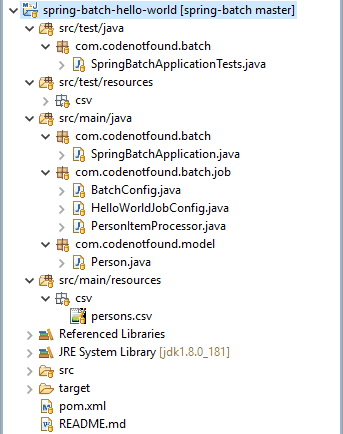
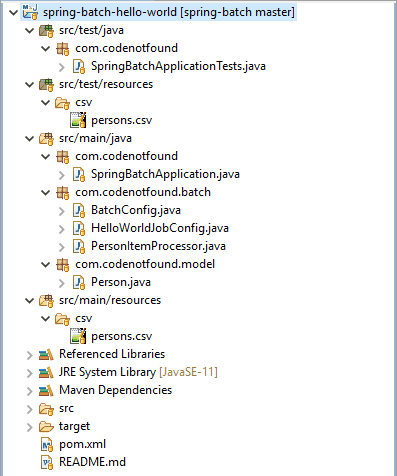
update post

Changed region(s): [[0.0, 0.0, 0.8746, 1.0], [0.9913, 0.0, 1.0, 1.0]]

diff --git a/_posts/spring-batch/2018-10-20-spring-batch-example.md b/_posts/spring-batch/2018-10-20-spring-batch-example.md
@@ -1,9 +1,9 @@
 ---
 title: "Spring Batch Example"
 permalink: /spring-batch-example.html
-excerpt: "A detailed step-by-step tutorial on how to implement a Hello World Spring Batch job using Spring Boot and Maven."
+excerpt: "A detailed step-by-step tutorial on how to implement a Hello World Spring Batch job using Spring Boot."
 date: 2018-10-20
-last_modified_at: 2018-11-17
+last_modified_at: 2019-05-30
 header:
   teaser: "assets/images/spring-batch/spring-batch-example.png"
 categories: [Spring Batch]
@@ -15,7 +15,7 @@ published: true
 
 <img src="{{ site.url }}/assets/images/spring-batch/spring-batch-example.png" alt="spring batch example" class="align-right title-image">
 
-I'm going to show you exactly how to create a [Spring Batch](https://spring.io/projects/spring-batch){:target="_blank"} _Hello World_ example that uses [Spring Boot](https://spring.io/projects/spring-boot){:target="_blank"} and [Maven](https://maven.apache.org/){:target="_blank"}.
+I'm going to show you exactly how to create a [Spring Batch](https://spring.io/projects/spring-batch){:target="_blank"} _Hello World_ example that uses [Spring Boot](https://spring.io/projects/spring-boot){:target="_blank"}.
 
 (Step-by-step)
 
@@ -28,13 +28,13 @@ If you want to learn more about Spring Batch - head on over to the [Spring Batch
 
 ## 1. How Does the Spring Batch Framework Work?
 
-Before we dive into the code let's look at the Spring Batch framework. It contains following key building blocks:
+Before we dive into the code let's look at the Spring Batch framework. It contains the following key building blocks:
 
 <img src="{{ site.url }}/assets/images/spring-batch/spring-batch-framework.png" alt="spring batch framework">
 
-A batch process consists out of a `Job`. This is an entity that encapsulates the entire batch process.
+A batch process consists of a `Job`. This is an entity that encapsulates the entire batch process.
 
-A `Job` can consist out of one or more `Step`s. In most cases, a step will read data (via an `ItemReader`), process it (using an `ItemProcessor`) and then write it (via an `ItemWriter`).
+A `Job` can consist of one or more `Step`s. In most cases, a step will read data (via an `ItemReader`), process it (using an `ItemProcessor`) and then write it (via an `ItemWriter`).
 
 The `JobLauncher` handles launching a `Job`.
 
@@ -47,9 +47,9 @@ In the example, we read a person's first and last name from a <var>person.csv</v
 ## 2. General Project Overview
 
 We will use the following tools/frameworks:
-* _Spring Batch 4.1_
-* _Spring Boot 2.1_
-* _Maven 3.5_
+* Spring Batch 4.1
+* Spring Boot 2.1
+* Maven 3.6
 
 Our project has the following directory structure:
 
@@ -75,11 +75,12 @@ The `spring-boot-starter-test` starter includes the dependencies for testing Spr
 
 There is also a dependency on `spring-batch-test`. This library contains some helper classes that will help test the batch job.
 
-In the plugins section, you'll find the [Spring Boot Maven Plugin](https://docs.spring.io/spring-boot/docs/current/reference/html/build-tool-plugins-maven-plugin.html){:target="_blank"}: `spring-boot-maven-plugin`. It allows us to build a single, runnable "uber-jar". This is a convenient way to execute and transport code. Also, the plugin allows you to start the example via a Maven command.
+In the plugins section, you'll find the [Spring Boot Maven Plugin](https://docs.spring.io/spring-boot/docs/2.1.5.RELEASE/reference/html/build-tool-plugins-maven-plugin.html){:target="_blank"}: `spring-boot-maven-plugin`. It allows us to build a single, runnable "uber-jar". This is a convenient way to execute and transport code. Also, the plugin allows you to start the example via a Maven command.
 
 {% highlight xml %}
 <?xml version="1.0" encoding="UTF-8"?>
-<project xmlns="http://maven.apache.org/POM/4.0.0" xmlns:xsi="http://www.w3.org/2001/XMLSchema-instance"
+<project xmlns="http://maven.apache.org/POM/4.0.0"
+  xmlns:xsi="http://www.w3.org/2001/XMLSchema-instance"
   xsi:schemaLocation="http://maven.apache.org/POM/4.0.0 http://maven.apache.org/xsd/maven-4.0.0.xsd">
   <modelVersion>4.0.0</modelVersion>
 
@@ -90,19 +91,17 @@ In the plugins section, you'll find the [Spring Boot Maven Plugin](https://docs.
 
   <name>spring-batch-hello-world</name>
   <description>Spring Batch Hello World Example</description>
-  <url>https://www.codenotfound.com/spring-batch-example.html</url>
+  <url>https://codenotfound.com/spring-batch-example.html</url>
 
   <parent>
     <groupId>org.springframework.boot</groupId>
     <artifactId>spring-boot-starter-parent</artifactId>
-    <version>2.1.0.RELEASE</version>
+    <version>2.1.5.RELEASE</version>
     <relativePath /> <!-- lookup parent from repository -->
   </parent>
 
   <properties>
-    <project.build.sourceEncoding>UTF-8</project.build.sourceEncoding>
-    <project.reporting.outputEncoding>UTF-8</project.reporting.outputEncoding>
-    <java.version>1.8</java.version>
+    <java.version>11</java.version>
   </properties>
 
   <dependencies>
@@ -110,7 +109,6 @@ In the plugins section, you'll find the [Spring Boot Maven Plugin](https://docs.
       <groupId>org.springframework.boot</groupId>
       <artifactId>spring-boot-starter-batch</artifactId>
     </dependency>
-
     <dependency>
       <groupId>org.springframework.boot</groupId>
       <artifactId>spring-boot-starter-test</artifactId>
@@ -150,7 +148,7 @@ In this example, we will **run Spring Batch without a database**. Instead, an in
 > The `spring-boot-starter-batch` starter has a dependency on `spring-boot-starter-jdbc` and will try to instantiate a datasource. Add <var>exclude = {DataSourceAutoConfiguration.class}</var> to the `@SpringBootApplication` annotation. This prevents Spring Boot from auto-configuring a `DataSource` for database connections.
 
 {% highlight java %}
-package com.codenotfound.batch;
+package com.codenotfound;
 
 import org.springframework.boot.SpringApplication;
 import org.springframework.boot.autoconfigure.SpringBootApplication;
@@ -216,7 +214,7 @@ public class Person {
 
 ## 6. Configuring the Spring Batch Job
 
-We start by creating a `BatchConfig` class that will configure Spring Batch. The [@Configuration](https://docs.spring.io/spring/docs/5.1.0.RELEASE/spring-framework-reference/core.html#beans-java-basic-concepts){:target="_blank"} annotation at the top of the class indicates that Spring can use this class as a source of bean definitions.
+We start by creating a `BatchConfig` class that will configure Spring Batch. The [@Configuration](https://docs.spring.io/spring/docs/5.1.7.RELEASE/spring-framework-reference/core.html#beans-java-basic-concepts){:target="_blank"} annotation at the top of the class indicates that Spring can use this class as a source of bean definitions.
 
 We add the [@EnableBatchProcessing](https://docs.spring.io/spring-batch/4.1.x/api/org/springframework/batch/core/configuration/annotation/EnableBatchProcessing.html){:target="_blank"} annotation which enables all needed Spring Batch features. It also provides a base configuration for setting up batch jobs.
 
@@ -233,7 +231,7 @@ We add the [@EnableBatchProcessing](https://docs.spring.io/spring-batch/4.1.x/ap
 For Spring Batch to use a Map based `JobRepository` we need to extend the `DefaultBatchConfigurer`. Override the `setDataSource()` method to not set a `DataSource`. This will cause the auto-configuration to [use a Map based JobRepository](https://github.com/spring-projects/spring-batch/blob/342d27bc1ed83312bdcd9c0cb30510f4c469e47d/spring-batch-core/src/main/java/org/springframework/batch/core/configuration/annotation/DefaultBatchConfigurer.java#L84){:target="_blank"}.
 
 {% highlight java %}
-package com.codenotfound.batch.job;
+package com.codenotfound.batch;
 
 import javax.sql.DataSource;
 import org.springframework.batch.core.configuration.annotation.DefaultBatchConfigurer;
@@ -257,7 +255,7 @@ Create a `HelloWorldJobConfig` configuration class and annotate it with `@Config
 
 In the `helloWorlJob` Bean, we use the `JobBuilderFactory` to create the job. We pass the name of the job and the step that needs to be run.
 
-> Note that [Spring will automatically wire](https://docs.spring.io/spring/docs/5.1.0.RELEASE/spring-framework-reference/core.html#beans-autowired-annotation){:target="_blank"} the `jobBuilders` and `stepBuilders` Beans in the `helloWorlJob()` Bean.
+> Note that [Spring will automatically wire](https://docs.spring.io/spring/docs/5.1.7.RELEASE/spring-framework-reference/core.html#beans-autowired-annotation){:target="_blank"} the `jobBuilders` and `stepBuilders` Beans in the `helloWorlJob()` Bean.
 
 The `helloWorldStep` Bean defines the different items our step executes. We use the `StepBuilderFactory` to create the step.
 
@@ -280,7 +278,7 @@ We use a `FlatFileItemWriterBuilder` builder implementation to create a `FlatFil
 The `FlatFileItemWriter` needs to know how to turn our generated output into a single string that can be written to a file. As in this example, our output is already a string we can use the [PassThroughLineAggregator](https://docs.spring.io/spring-batch/4.1.x/reference/html/readersAndWriters.html#PassThroughLineAggregator){:target="_blank"}. This is the most basic implementation, which assumes that the object is already a string.
 
 {% highlight java %}
-package com.codenotfound.batch.job;
+package com.codenotfound.batch;
 
 import org.springframework.batch.core.Job;
 import org.springframework.batch.core.Step;
@@ -350,7 +348,7 @@ To do so, we create a `PersonItemProcessor` that implements the `ItemProcessor` 
 For debugging purposes, we also log the result.
 
 {% highlight java %}
-package com.codenotfound.batch.job;
+package com.codenotfound.batch;
 
 import org.slf4j.Logger;
 import org.slf4j.LoggerFactory;
@@ -378,14 +376,16 @@ public class PersonItemProcessor
 
 To wrap up our example we create a basic unit test case. It will run the batch job and check if it finishes successfully.
 
-We use the `@RunWith` and `@SpringBootTest` [testing annotations](https://docs.spring.io/spring-boot/docs/2.1.0.RELEASE/reference/html/boot-features-testing.html#boot-features-testing-spring-boot-applications){:target="_blank"} to tell JUnit to run using Spring's testing support and bootstrap with Spring Boot's support.
+We use the `@RunWith` and `@SpringBootTest` [testing annotations](https://docs.spring.io/spring-boot/docs/2.1.5.RELEASE/reference/html/boot-features-testing.html#boot-features-testing-spring-boot-applications){:target="_blank"} to tell JUnit to run using Spring's testing support and bootstrap with Spring Boot's support.
 
 Spring Batch ships with a `JobLauncherTestUtils` utility class for testing batch jobs.
 
-We first create an inner `BatchTestConfig` class that adds our <var>helloWorld</var> job to a `JobLauncherTestUtils` bean. Then use the `launchJob()` method of this bean to run the batch job. If the job executed without any errors, the value of the exit code is <var>COMPLETED</var>.
+We first create an inner `BatchTestConfig` class that adds our <var>helloWorld</var> job to a `JobLauncherTestUtils` bean. Then use the `launchJob()` method of this bean to run the batch job.
+
+If the job executed without any errors, the value of the exit code is <var>COMPLETED</var>.
 
 {% highlight java %}
-package com.codenotfound.batch;
+package com.codenotfound;
 
 import static org.assertj.core.api.Assertions.assertThat;
 import org.junit.Test;
@@ -438,7 +438,7 @@ public class SpringBatchApplicationTests {
 }
 {% endhighlight %}
 
-To trigger above test case, open a command prompt in the project root folder and execute following Maven command:
+To trigger the above test case, open a command prompt in the project root folder and execute the following Maven command:
 
 {% highlight plaintext %}
 mvn test
@@ -447,31 +447,36 @@ mvn test
 The result is a successful build during which the batch job is executed.
 
 {% highlight plaintext %}
-.   ____          _            __ _ _
+ .   ____          _            __ _ _
 /\\ / ___'_ __ _ _(_)_ __  __ _ \ \ \ \
 ( ( )\___ | '_ | '_| | '_ \/ _` | \ \ \ \
 \\/  ___)| |_)| | | | | || (_| |  ) ) ) )
-'  |____| .__|_| |_|_| |_\__, | / / / /
+ '  |____| .__|_| |_|_| |_\__, | / / / /
 =========|_|==============|___/=/_/_/_/
-:: Spring Boot ::        (v2.1.0.RELEASE)
+:: Spring Boot ::        (v2.1.5.RELEASE)
 
-2018-11-11 20:37:27.573  INFO 14436 --- [           main] c.c.batch.SpringBatchApplication         : Starting SpringBatchApplication on DESKTOP-2RB3C1U with PID 14436 (C:\Users\Codenotfound\repos\spring-batch\spring-batch-hello-world\target\classes started by Codenotfound in C:\Users\Codenotfound\repos\spring-batch\spring-batch-hello-world)
-2018-11-11 20:37:27.589  INFO 14436 --- [           main] c.c.batch.SpringBatchApplication         : No active profile set, falling back to default profiles: default
-2018-11-11 20:37:28.245  WARN 14436 --- [           main] o.s.b.c.c.a.DefaultBatchConfigurer       : No datasource was provided...using a Map based JobRepository
-2018-11-11 20:37:28.245  WARN 14436 --- [           main] o.s.b.c.c.a.DefaultBatchConfigurer       : No transaction manager was provided, using a ResourcelessTransactionManager
-2018-11-11 20:37:28.276  INFO 14436 --- [           main] o.s.b.c.l.support.SimpleJobLauncher      : No TaskExecutor has been set, defaulting to synchronous executor.
-2018-11-11 20:37:28.667  INFO 14436 --- [           main] c.c.batch.SpringBatchApplication         : Started SpringBatchApplication in 1.406 seconds (JVM running for 5.269)
-2018-11-11 20:37:28.667  INFO 14436 --- [           main] o.s.b.a.b.JobLauncherCommandLineRunner   : Running default command line with: []
-2018-11-11 20:37:28.729  INFO 14436 --- [           main] o.s.b.c.l.support.SimpleJobLauncher      : Job: [SimpleJob: [name=helloWorldJob]] launched with the following parameters: [{}]
-2018-11-11 20:37:28.745  INFO 14436 --- [           main] o.s.batch.core.job.SimpleStepHandler     : Executing step: [helloWorldStep]
-2018-11-11 20:37:28.776  INFO 14436 --- [           main] c.c.batch.job.PersonItemProcessor        : converting 'John Doe' into 'Hello John Doe!'
-2018-11-11 20:37:28.776  INFO 14436 --- [           main] c.c.batch.job.PersonItemProcessor        : converting 'Jane Doe' into 'Hello Jane Doe!'
-2018-11-11 20:37:28.792  INFO 14436 --- [           main] o.s.b.c.l.support.SimpleJobLauncher      : Job: [SimpleJob: [name=helloWorldJob]] completed with the following parameters: [{}] and the following status: [COMPLETED]
+2019-05-30 19:11:12.784  INFO 14588 --- [           main] c.c.SpringBatchApplicationTests          : Starting SpringBatchApplicationTests on DESKTOP-2RB3C1U with PID 14588 (started by Codenotfound in C:\Users\Codenotfound\repos\spring-batch\spring-batch-hello-world)
+2019-05-30 19:11:12.785  INFO 14588 --- [           main] c.c.SpringBatchApplicationTests          : No active profile set, falling back to default profiles: default
+2019-05-30 19:11:13.305  WARN 14588 --- [           main] o.s.b.c.c.a.DefaultBatchConfigurer       : No datasource was provided...using a Map based JobRepository
+2019-05-30 19:11:13.306  WARN 14588 --- [           main] o.s.b.c.c.a.DefaultBatchConfigurer       : No transaction manager was provided, using a ResourcelessTransactionManager
+2019-05-30 19:11:13.328  INFO 14588 --- [           main] o.s.b.c.l.support.SimpleJobLauncher      : No TaskExecutor has been set, defaulting to synchronous executor.
+2019-05-30 19:11:13.350  INFO 14588 --- [           main] c.c.SpringBatchApplicationTests          : Started SpringBatchApplicationTests in 0.894 seconds (JVM running for 1.777)
+2019-05-30 19:11:13.732  INFO 14588 --- [           main] o.s.b.c.l.support.SimpleJobLauncher      : Job: [SimpleJob: [name=helloWorldJob]] launched with the following parameters: [{random=459672}]
+2019-05-30 19:11:13.759  INFO 14588 --- [           main] o.s.batch.core.job.SimpleStepHandler     : Executing step: [helloWorldStep]
+2019-05-30 19:11:13.812  INFO 14588 --- [           main] c.c.batch.PersonItemProcessor            : converting 'John Doe' into 'Hello John Doe!'
+2019-05-30 19:11:13.822  INFO 14588 --- [           main] c.c.batch.PersonItemProcessor            : converting 'Jane Doe' into 'Hello Jane Doe!'
+2019-05-30 19:11:13.842  INFO 14588 --- [           main] o.s.b.c.l.support.SimpleJobLauncher      : Job: [SimpleJob: [name=helloWorldJob]] completed with the following parameters: [{random=459672}] and the following status: [COMPLETED]
+[INFO] Tests run: 1, Failures: 0, Errors: 0, Skipped: 0, Time elapsed: 1.953 s - in com.codenotfound.SpringBatchApplicationTests
+[INFO]
+[INFO] Results:
+[INFO]
+[INFO] Tests run: 1, Failures: 0, Errors: 0, Skipped: 0
+[INFO]
 [INFO] ------------------------------------------------------------------------
 [INFO] BUILD SUCCESS
 [INFO] ------------------------------------------------------------------------
-[INFO] Total time: 4.140 s
-[INFO] Finished at: 2018-11-11T20:37:28+01:00
+[INFO] Total time:  6.852 s
+[INFO] Finished at: 2019-05-30T19:11:14+02:00
 [INFO] ------------------------------------------------------------------------
 {% endhighlight %}
 
